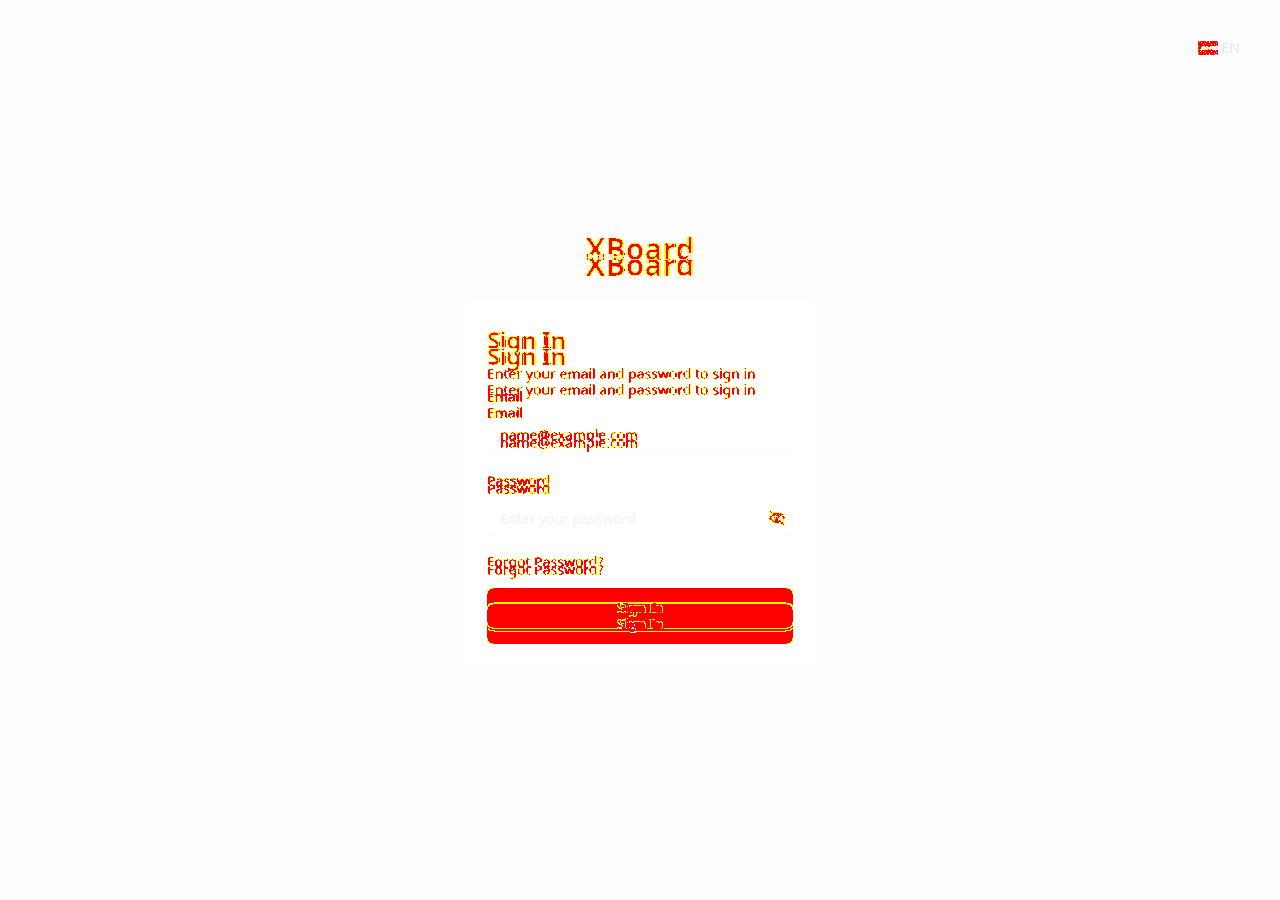
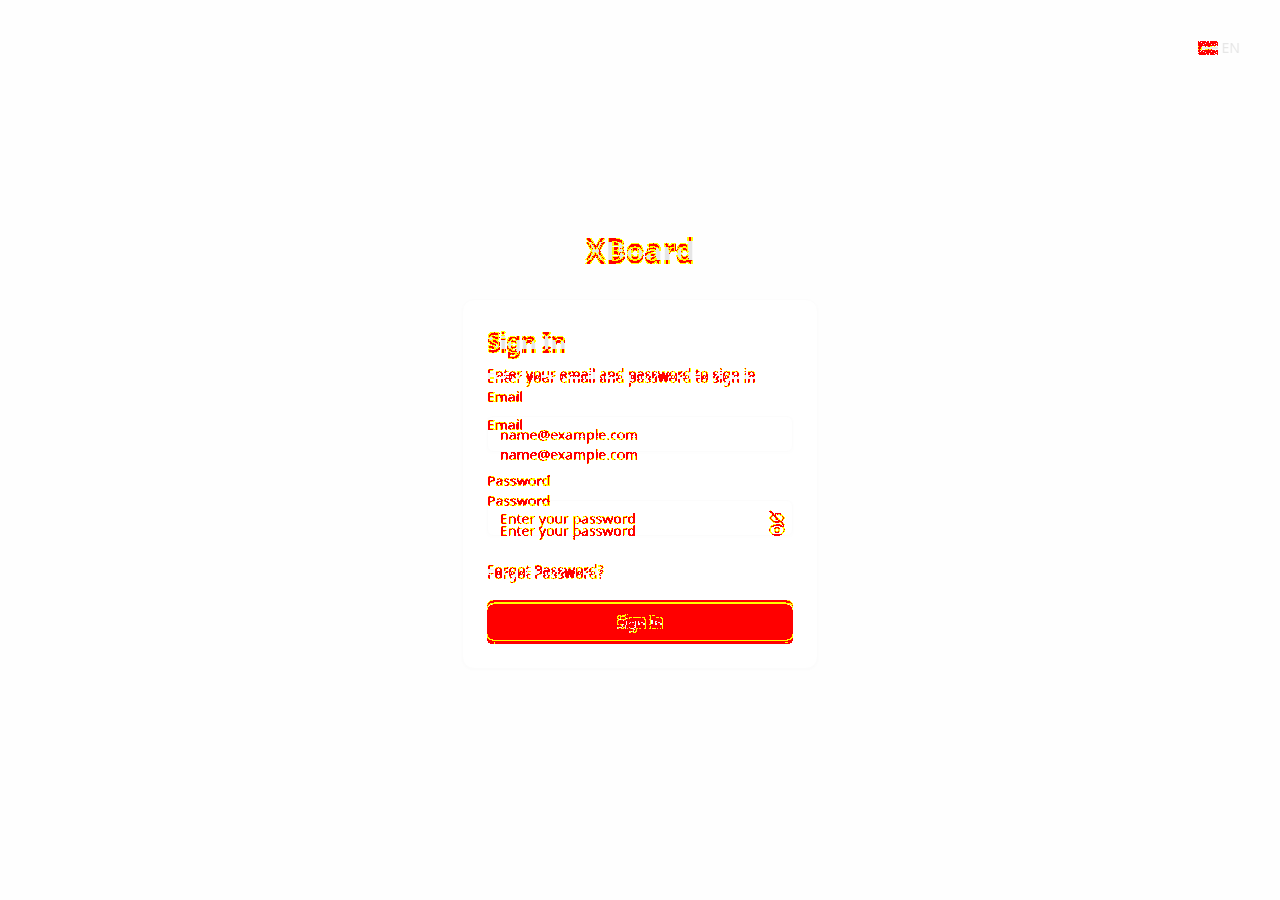
fix(admin): tighten plan rhythm, flat server protocol, gift gate scroll-click

Changed region(s): [[0.375, 0.3733, 0.625, 0.7156], [0.4375, 0.2489, 0.5625, 0.3111], [0.5938, 0.56, 0.625, 0.5911]]

diff --git a/frontend/admin/src/pages/modules/PlanPage.tsx b/frontend/admin/src/pages/modules/PlanPage.tsx
@@ -460,8 +460,8 @@ export default function PlanPage() {
             </DialogTitle>
           </DialogHeader>
           <div className="min-h-0 flex-1 overflow-y-auto bg-background">
-          <div className="space-y-6 px-6 py-4 text-sm">
-            <div className="grid grid-cols-1 gap-4 md:grid-cols-2">
+          <div className="space-y-4 px-6 py-4 text-sm">
+            <div className="grid grid-cols-1 gap-3 md:grid-cols-2">
               <div className="space-y-1.5">
                 <Label className={dialogFieldLabelCls}>{t('subscribe.plan.form.name.label')}</Label>
                 <input
@@ -480,7 +480,7 @@ export default function PlanPage() {
                 />
               </div>
             </div>
-            <div className="grid grid-cols-1 gap-4 md:grid-cols-2">
+            <div className="grid grid-cols-1 gap-3 md:grid-cols-2">
               <div className="space-y-1.5">
                 <div className="flex items-center justify-between gap-2">
                   <Label className={dialogSubFieldLabelCls}>{t('subscribe.plan.form.group.label')}</Label>
@@ -521,7 +521,7 @@ export default function PlanPage() {
                 />
               </div>
             </div>
-            <div className="grid grid-cols-1 gap-4 md:grid-cols-2">
+            <div className="grid grid-cols-1 gap-3 md:grid-cols-2">
               <div className="space-y-1.5">
                 <Label className={dialogFieldLabelCls}>{t('subscribe.plan.form.speed.label')}</Label>
                 <SuffixInput
@@ -555,7 +555,7 @@ export default function PlanPage() {
                 />
               </div>
             </div>
-            <div className="grid grid-cols-1 gap-4 md:grid-cols-2">
+            <div className="grid grid-cols-1 gap-3 md:grid-cols-2">
               <div className="space-y-1.5">
                 <Label className={dialogFieldLabelCls}>{t('subscribe.plan.form.capacity.label')}</Label>
                 <SuffixInput
@@ -592,7 +592,7 @@ export default function PlanPage() {
                 />
               </div>
             </div>
-            <div className="space-y-4 rounded-lg border border-dashed p-4">
+            <div className="space-y-3 rounded-lg border border-dashed p-4">
               <div className="flex items-center justify-between gap-2">
                 <h3 className="text-sm font-medium">{t('subscribe.plan.form.price.title')}</h3>
                 <div className="flex items-center gap-2">

diff --git a/frontend/admin/src/lib/form-styles.ts b/frontend/admin/src/lib/form-styles.ts
@@ -29,6 +29,6 @@ export const configSubFieldLabelCls =
 /** 7001 shadcn FormDescription slot (empty on server multiselect rows). */
 export const formSubLabelCls = 'm-0 text-[0.8rem] text-muted-foreground'
 
-/** 7001 server protocol subsection: mono labels + compact inputs inside bordered block */
+/** 7001 server protocol subsection: mono labels + compact inputs (no extra border — legacy is flat) */
 export const serverProtocolFieldsCls =
-  'space-y-6 rounded-lg border p-4 [&_label]:font-mono [&_label]:text-[12px] [&_label]:text-foreground/80 [&_input:not([type=checkbox])]:h-9 [&_input]:font-mono [&_input]:text-xs [&_textarea]:font-mono [&_textarea]:text-xs'
+  'space-y-6 [&_label]:font-mono [&_label]:text-[12px] [&_label]:text-foreground/80 [&_input:not([type=checkbox])]:h-9 [&_input]:font-mono [&_input]:text-xs [&_textarea]:font-mono [&_textarea]:text-xs'
